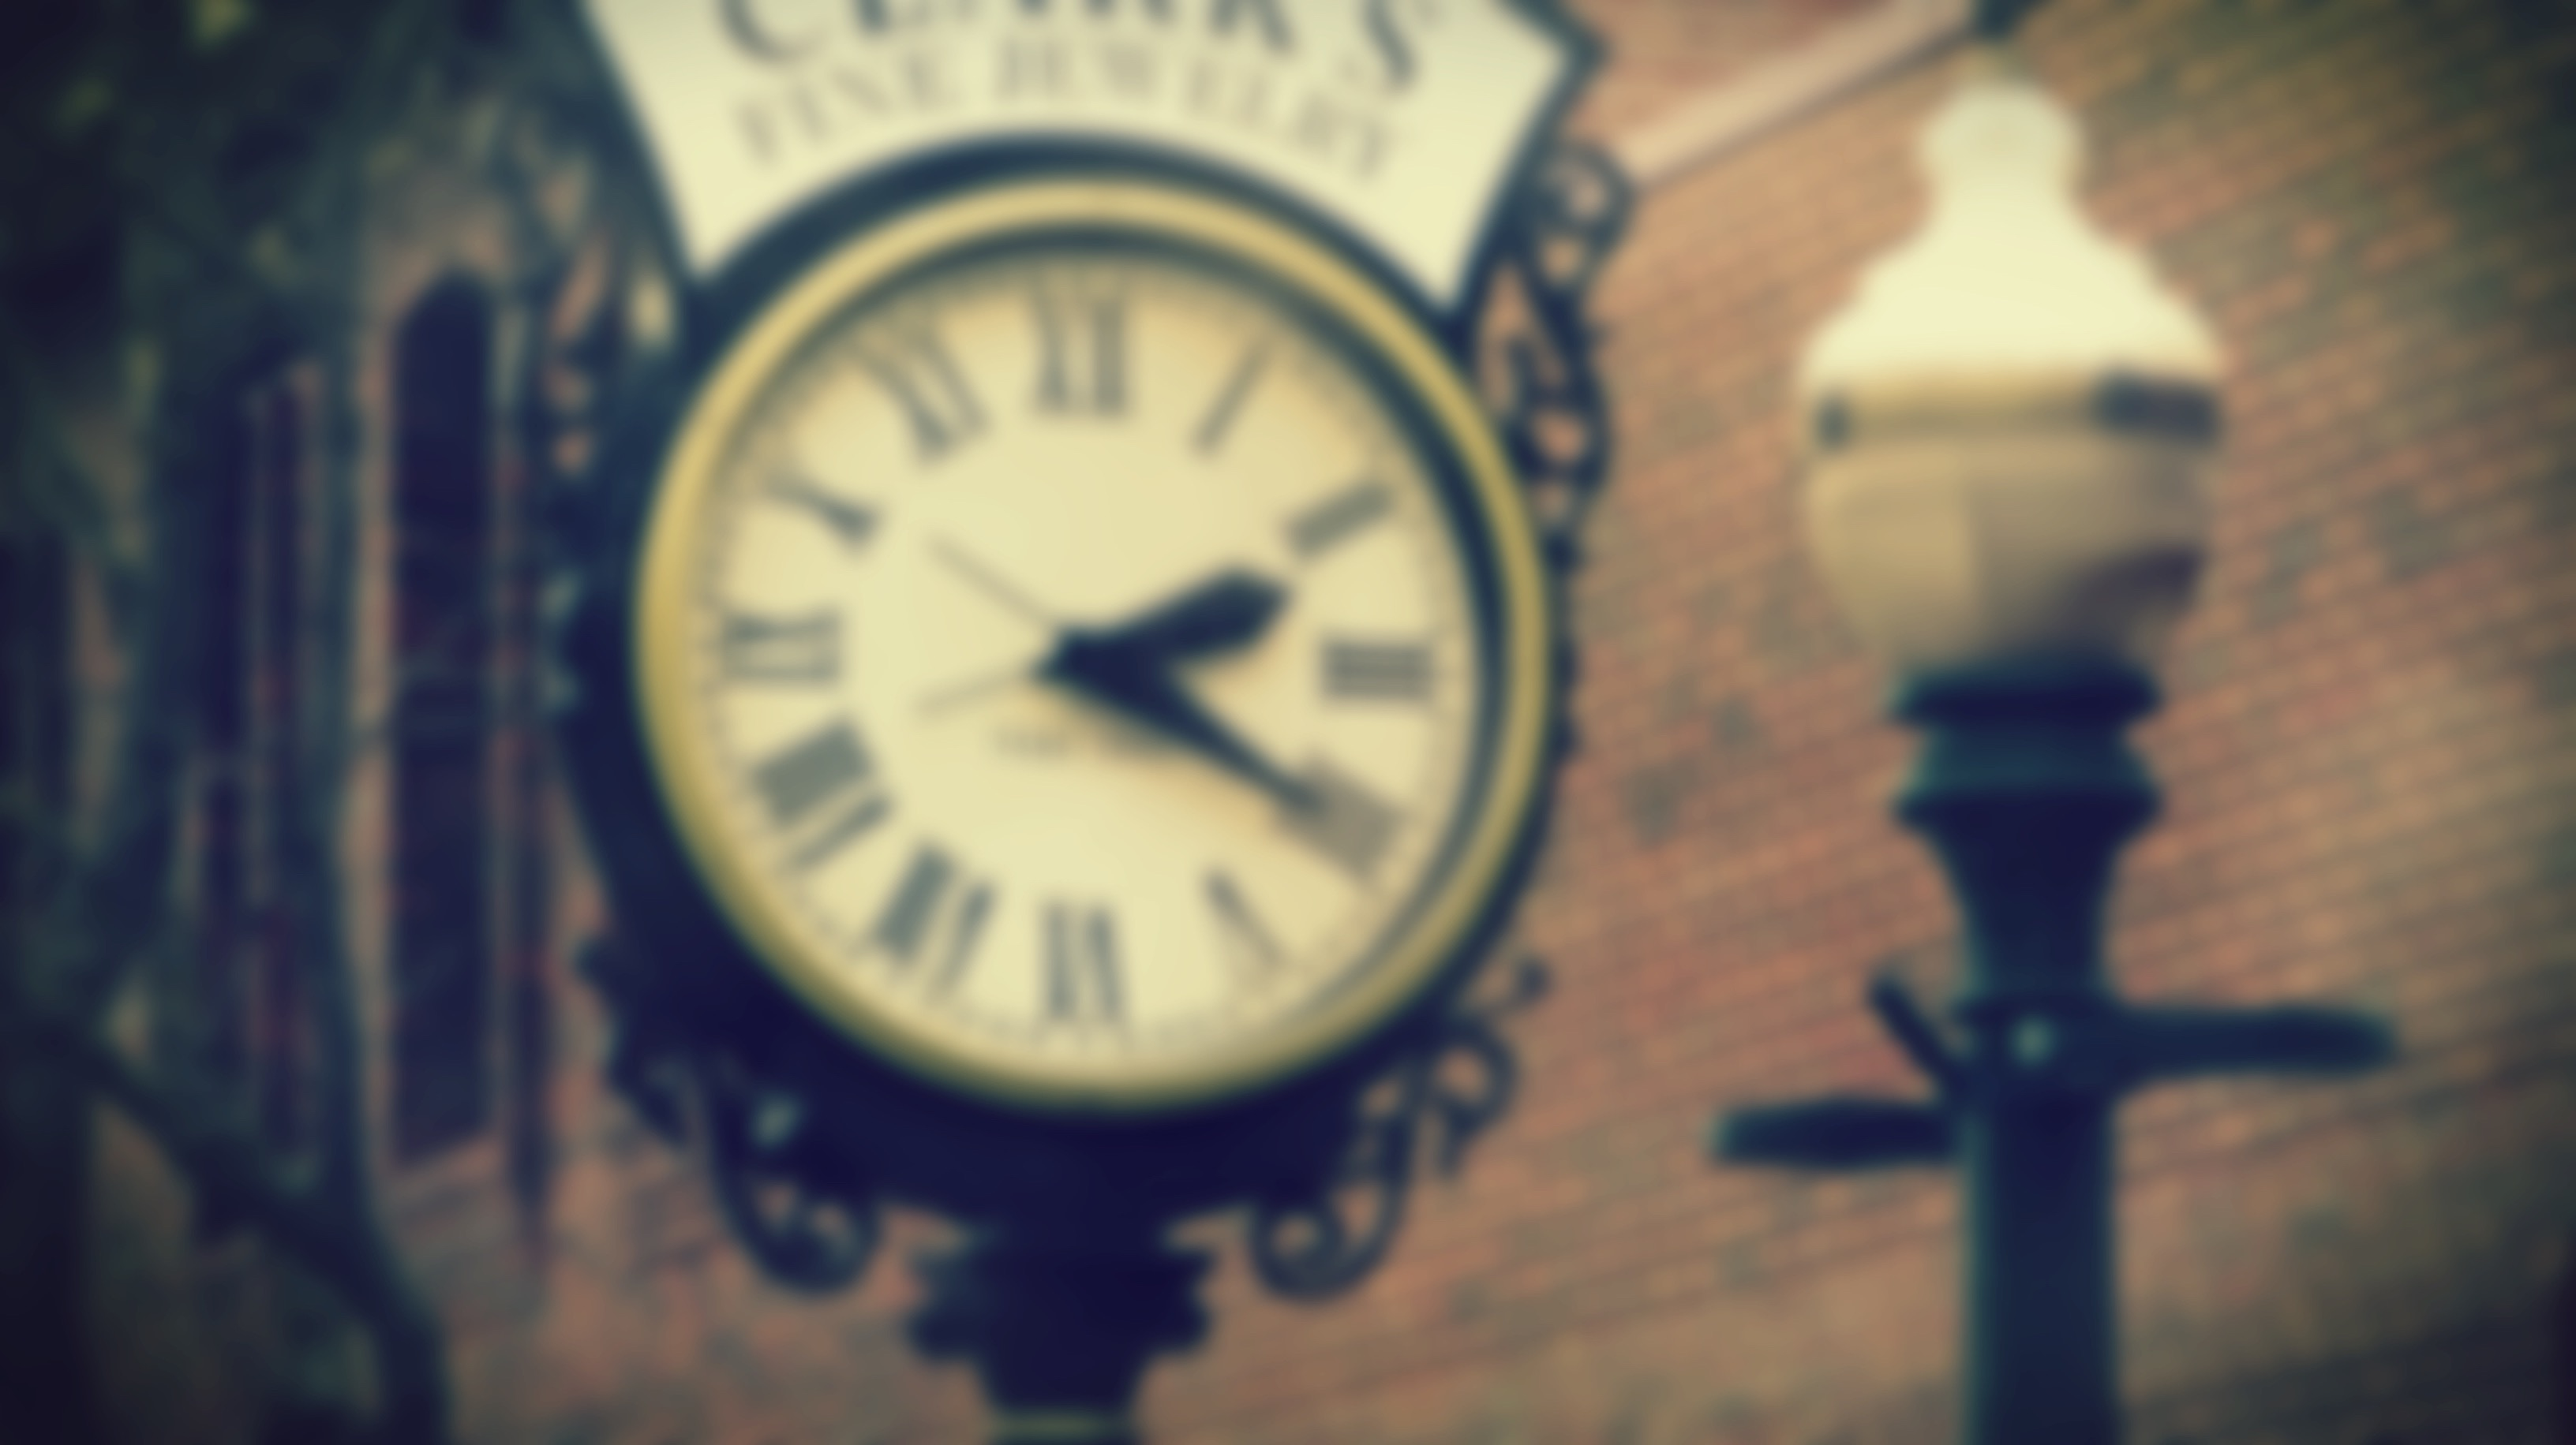
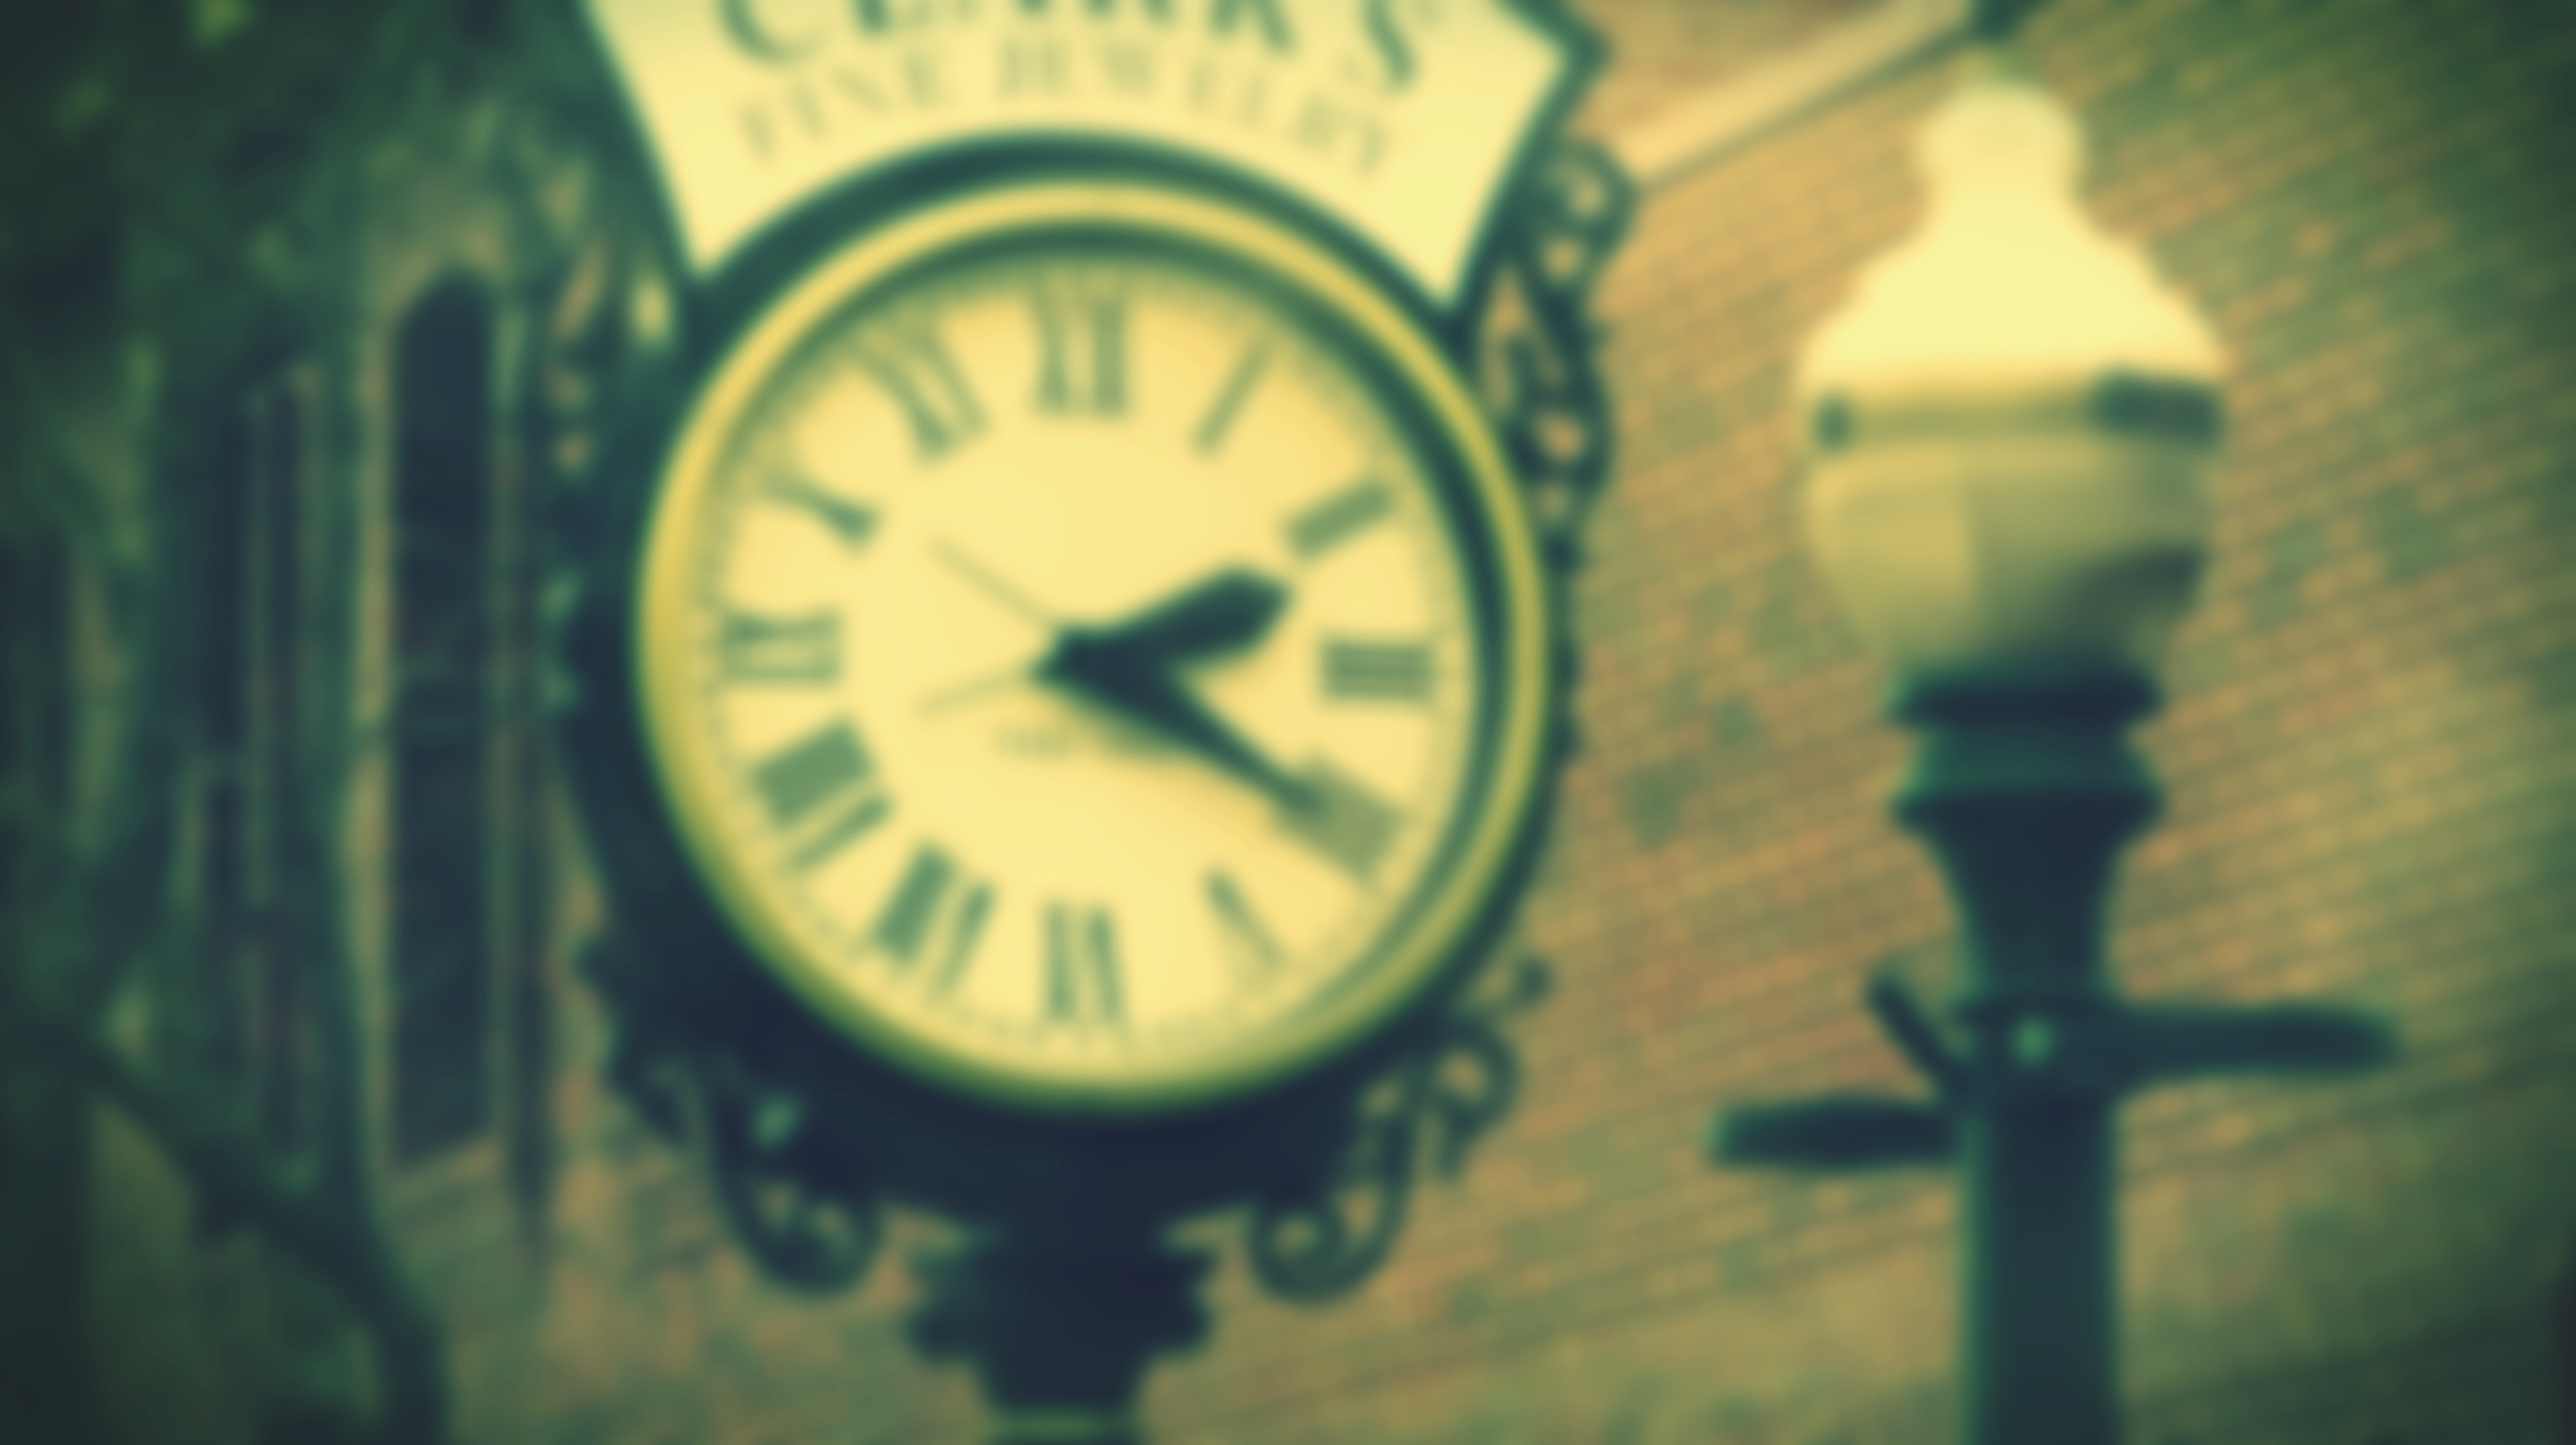
sexy font, fixed exchanges page buttons, color and images changed

diff --git a/app/assets/stylesheets/application.css b/app/assets/stylesheets/application.css
@@ -28,8 +28,8 @@ h3,
 h4,
 h5,
 h6 {
-    font-family: proxima-nova, "Helvetica Neue", Helvetica, Arial, sans-serif;
-    font-weight: 700;
+     font-family: "HelveticaNeue-Light", "Helvetica Neue Light", "Helvetica Neue", Helvetica, Arial, "Lucida Grande", sans-serif; 
+   font-weight: 300;
 }
 
 .topnav {
@@ -46,8 +46,8 @@ h6 {
     padding-top: 50px; 
     padding-bottom: 50px;
     text-align: center;
-    color: #f8f8f8;
-    background: url("/assets/time.jpeg") no-repeat center center;
+    color: #ED6A5A;
+    background: url("/assets/sky.jpg") no-repeat center center;
     /*background-color: #ed6a5a;*/
     background-size: cover;
       overflow: hidden;
@@ -75,12 +75,16 @@ h6 {
     position: relative;
     padding-top: 20%;
     padding-bottom: 20%;
+    font-family: proxima-nova, "Helvetica Neue", Helvetica, Arial, sans-serif;
+    font-weight: 700;
+    font-size: 30px;
 }
 
 .intro-message > h1 {
     margin: 0;
     text-shadow: 2px 2px 3px rgba(0,0,0,0.6);
     font-size: 5em;
+    font-family: 
 }
 
 .intro-divider {
@@ -127,13 +131,14 @@ h6 {
 
 .content-section-a {
     padding: 50px 0;
-    background-color: #f8f8f8;
+    background-color: #FAF3DD;
 }
 
 .content-section-b {
     padding: 50px 0;
     border-top: 1px solid #e7e7e7;
     border-bottom: 1px solid #e7e7e7;
+    background-color: #fdfdf8;
 }
 
 .section-heading {
@@ -156,7 +161,7 @@ h6 {
 .banner {
     padding: 100px 0;
     color: #f8f8f8;
-    background: url("/assets/green.jpg") no-repeat center center;
+    background: url("/assets/hands2.jpg") no-repeat center center;
     background-size: cover;
 }
 
@@ -226,7 +231,7 @@ p.copyright {
 }
 
 .team-member p {
-    font-family:proxima-nova, "Helvetica Neue", Helvetica, Arial, sans-serif;
+    font-family: proxima-nova, "Helvetica Neue", Helvetica, Arial, sans-serif;
     margin-top: 0;
 }
 
@@ -252,7 +257,7 @@ h4 {
  border:0 solid #fff; 
  border-bottom-width:1px;
  padding-bottom:10px;
- font-family: Optima, Segoe, 'Segoe UI', Candara, Calibri, Arial, sans-serif;
+ font-family: proxima-nova, "Helvetica Neue", Helvetica, Arial, sans-serif;
  text-align: center;
 }
 
@@ -482,6 +487,8 @@ h4 {
 }
 
 
-
+#orangebutton {
+    color: #ED6A5A;
+}
 
 
